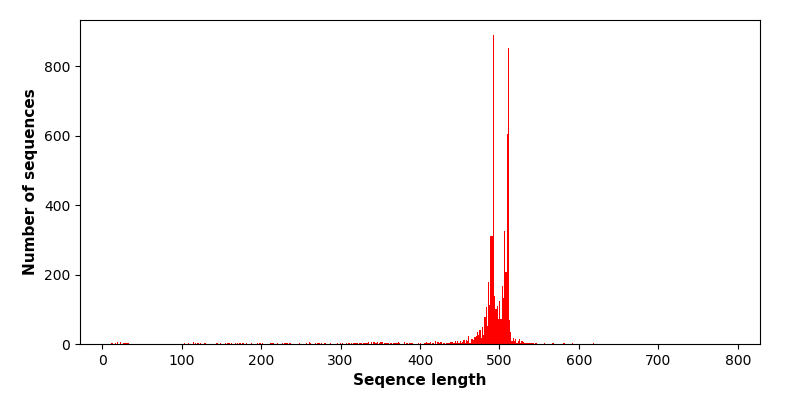
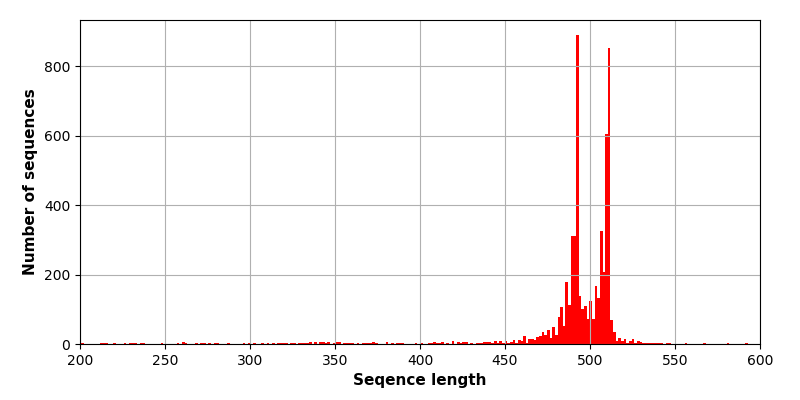
update

diff --git a/fasta_length_hist.py b/fasta_length_hist.py
@@ -6,7 +6,7 @@ Script to plot the distribution of lengths of a fasta file.
 Written by Wenchao Lin.
 
 You can use this script from the shell like this:
-$ ./fasta_length_hist.py --input sample.fasta --out seqs.pdf --min 200 --max 400
+$ ./fasta_length_hist.py --input sample.fasta --output seqs.pdf --min 200 --max 400
 """
 
 ###############################################################################
@@ -22,21 +22,23 @@ matplotlib.use('Agg', warn=False)
 from matplotlib import pyplot as plt
 
 ################################################################################
-desc = "fasta_length_hist v1.0"
-parser = argparse.ArgumentParser(description=desc, formatter_class=RawTextHelpFormatter)
+desc = "fasta_length_hist.py v1.0"
+parser = argparse.ArgumentParser(description=desc, formatter_class=RawTextHelpFormatter, add_help=True)
 
 # All the required arguments #
-parser.add_argument('-i','--input', help="The fasta file to process", type=str)
-parser.add_argument('-o','--out', default="seqHist.pdf", type=str)
+parser.add_argument('-i','--input', help="The fasta file to process", type=str,required=True)
+
 
 # All the optional arguments #
-parser.add_argument("--x_log", default=False, type=bool)
-parser.add_argument("--y_log", default=False, type=bool)
-parser.add_argument("--grid", default=False, help='Turn on/off grid in the plot', 
-					type=bool)
+parser.add_argument('-o','--output', default="seqHist", help='The output file of the histogram. Default:seqHist.pdf', type=str)
+parser.add_argument('-of','--format', default='pdf', help='Set ouput format. Default to "pdf"', type=str,choices=('pdf','png','jpeg'))
 
-parser.add_argument("--xmin", help="set axes")
-parser.add_argument("--xmax")
+parser.add_argument("--x_log", action='store_true' ,help='xAxis will be set to a log scale')
+parser.add_argument("--y_log", action='store_true' ,help='yAxis will be set to a log scale')
+parser.add_argument("--grid", action='store_true', help='Trun on grid of the plot')
+
+parser.add_argument("--xmin", help="Set the limits (min) of x-axis")
+parser.add_argument("--xmax", help="Set the limits (max) of x-axis ")
 
 
 # Parse it #
@@ -48,7 +50,8 @@ else:
 	parser.print_help()
 	exit(0)
 
-output_path = args.out
+output_path = args.output + '.' + args.format
+
 x_log       = bool(args.x_log)
 y_log       = bool(args.y_log)
 show_grid   = bool(args.grid)
@@ -92,4 +95,4 @@ fig.subplots_adjust(hspace=0.0, bottom=bottom, top=top, left=left, right=right)
 
 # Save it #
 sys.stderr.write("Saved graph to %s\n" % output_path)
-fig.savefig(output_path, format='pdf')
+fig.savefig(output_path, format=args.format)

diff --git a/README.md b/README.md
@@ -1,8 +1,38 @@
 # fasta_length_hist
 
-Script to plot the histogram of fasta lengths
+## Description
+
+Script to plot the histogram of sequence length in a given fasta file.
+
+## Options
+
+```
+usage: fasta_length_hist.py [-h] -i INPUT [-o OUTPUT] [-of {pdf,png,jpeg}]
+                            [--x_log] [--y_log] [--grid] [--xmin XMIN]
+                            [--xmax XMAX]
+
+fasta_length_hist.py v1.0
+
+optional arguments:
+  -h, --help            show this help message and exit
+  -i INPUT, --input INPUT
+                        The fasta file to process
+  -o OUTPUT, --output OUTPUT
+                        The output file of the histogram. Default:seqHist.pdf
+  -of {pdf,png,jpeg}, --format {pdf,png,jpeg}
+                        Set ouput format. Default to "pdf"
+  --x_log               xAxis will be set to a log scale
+  --y_log               yAxis will be set to a log scale
+  --grid                Trun on grid of the plot
+  --xmin XMIN           Set the limits (min) of x-axis
+  --xmax XMAX           Set the limits (max) of x-axis 
+```
+
+## Examples
+
+Here we plot the distribution of sequence lengths from a FASTA file `sample.fasta`.
+
+`python fasta_length_hist.py --input sample.fasta -of png --xmin 200 --xmax 600 --grid`
 
 
-You can use this script from the shell like this:
 
-`$ ./fasta_length_hist.py --input sample.fasta --out seqs.pdf --min 200 --max 600`
